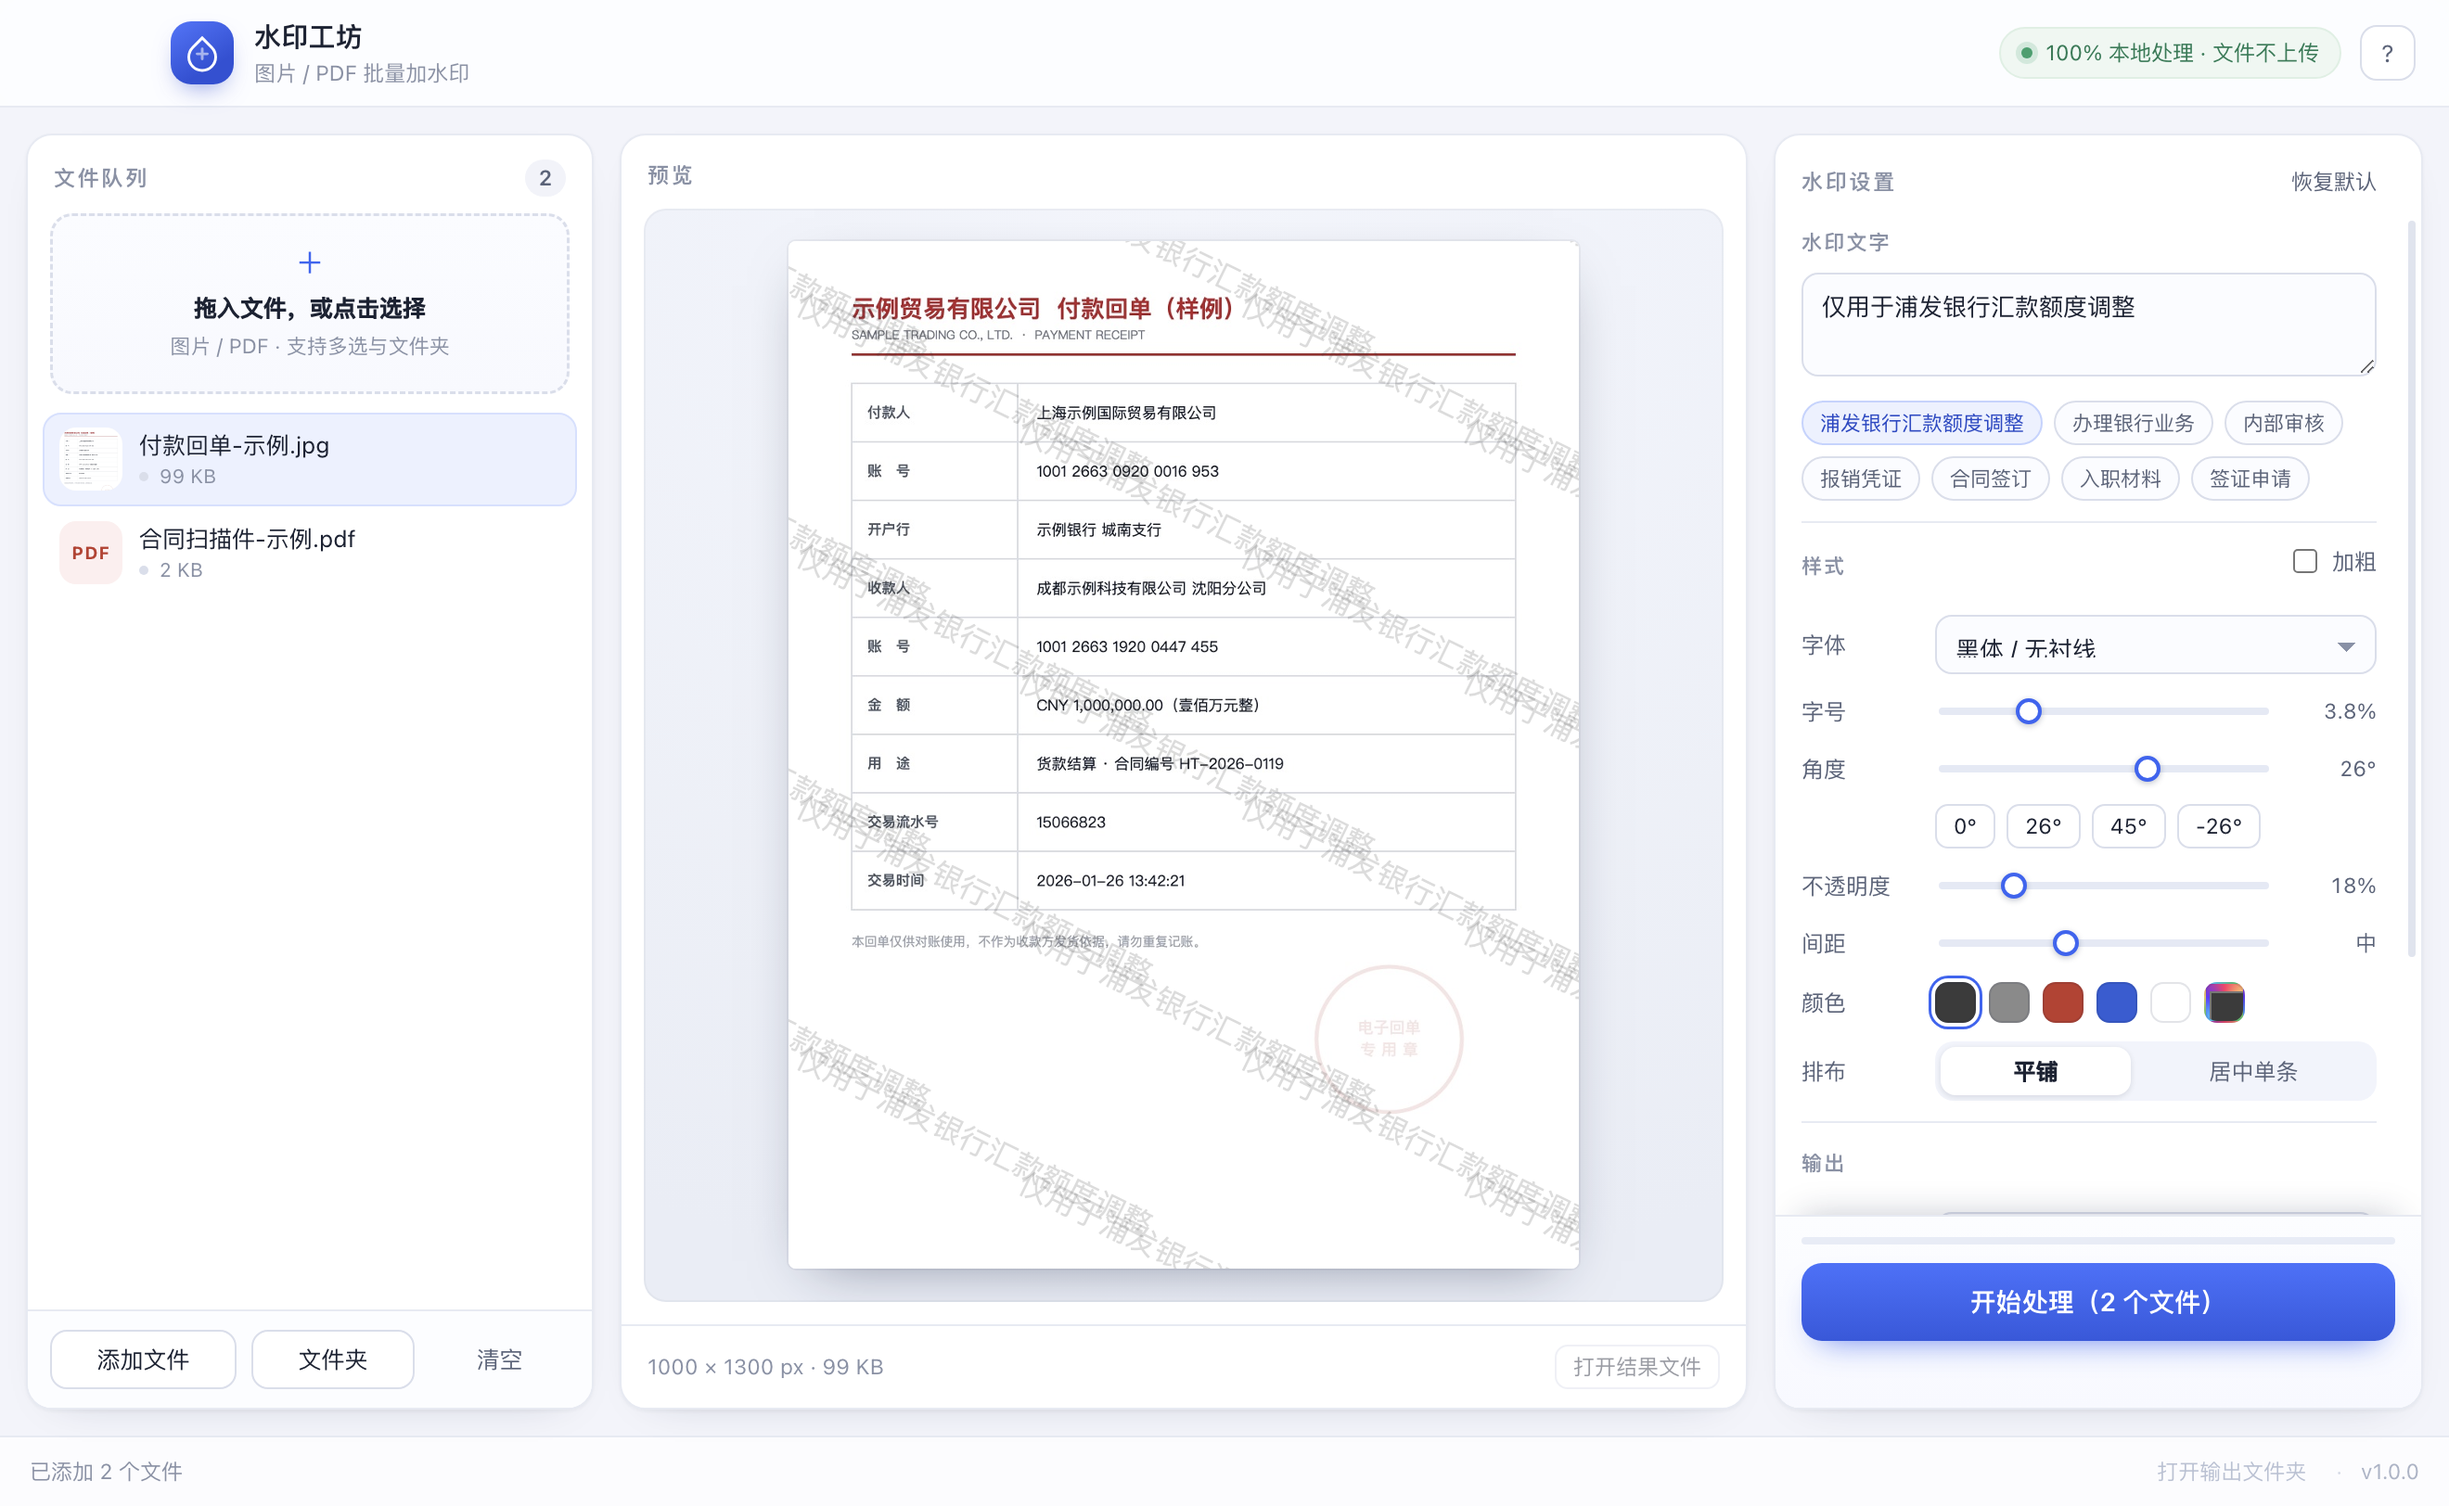
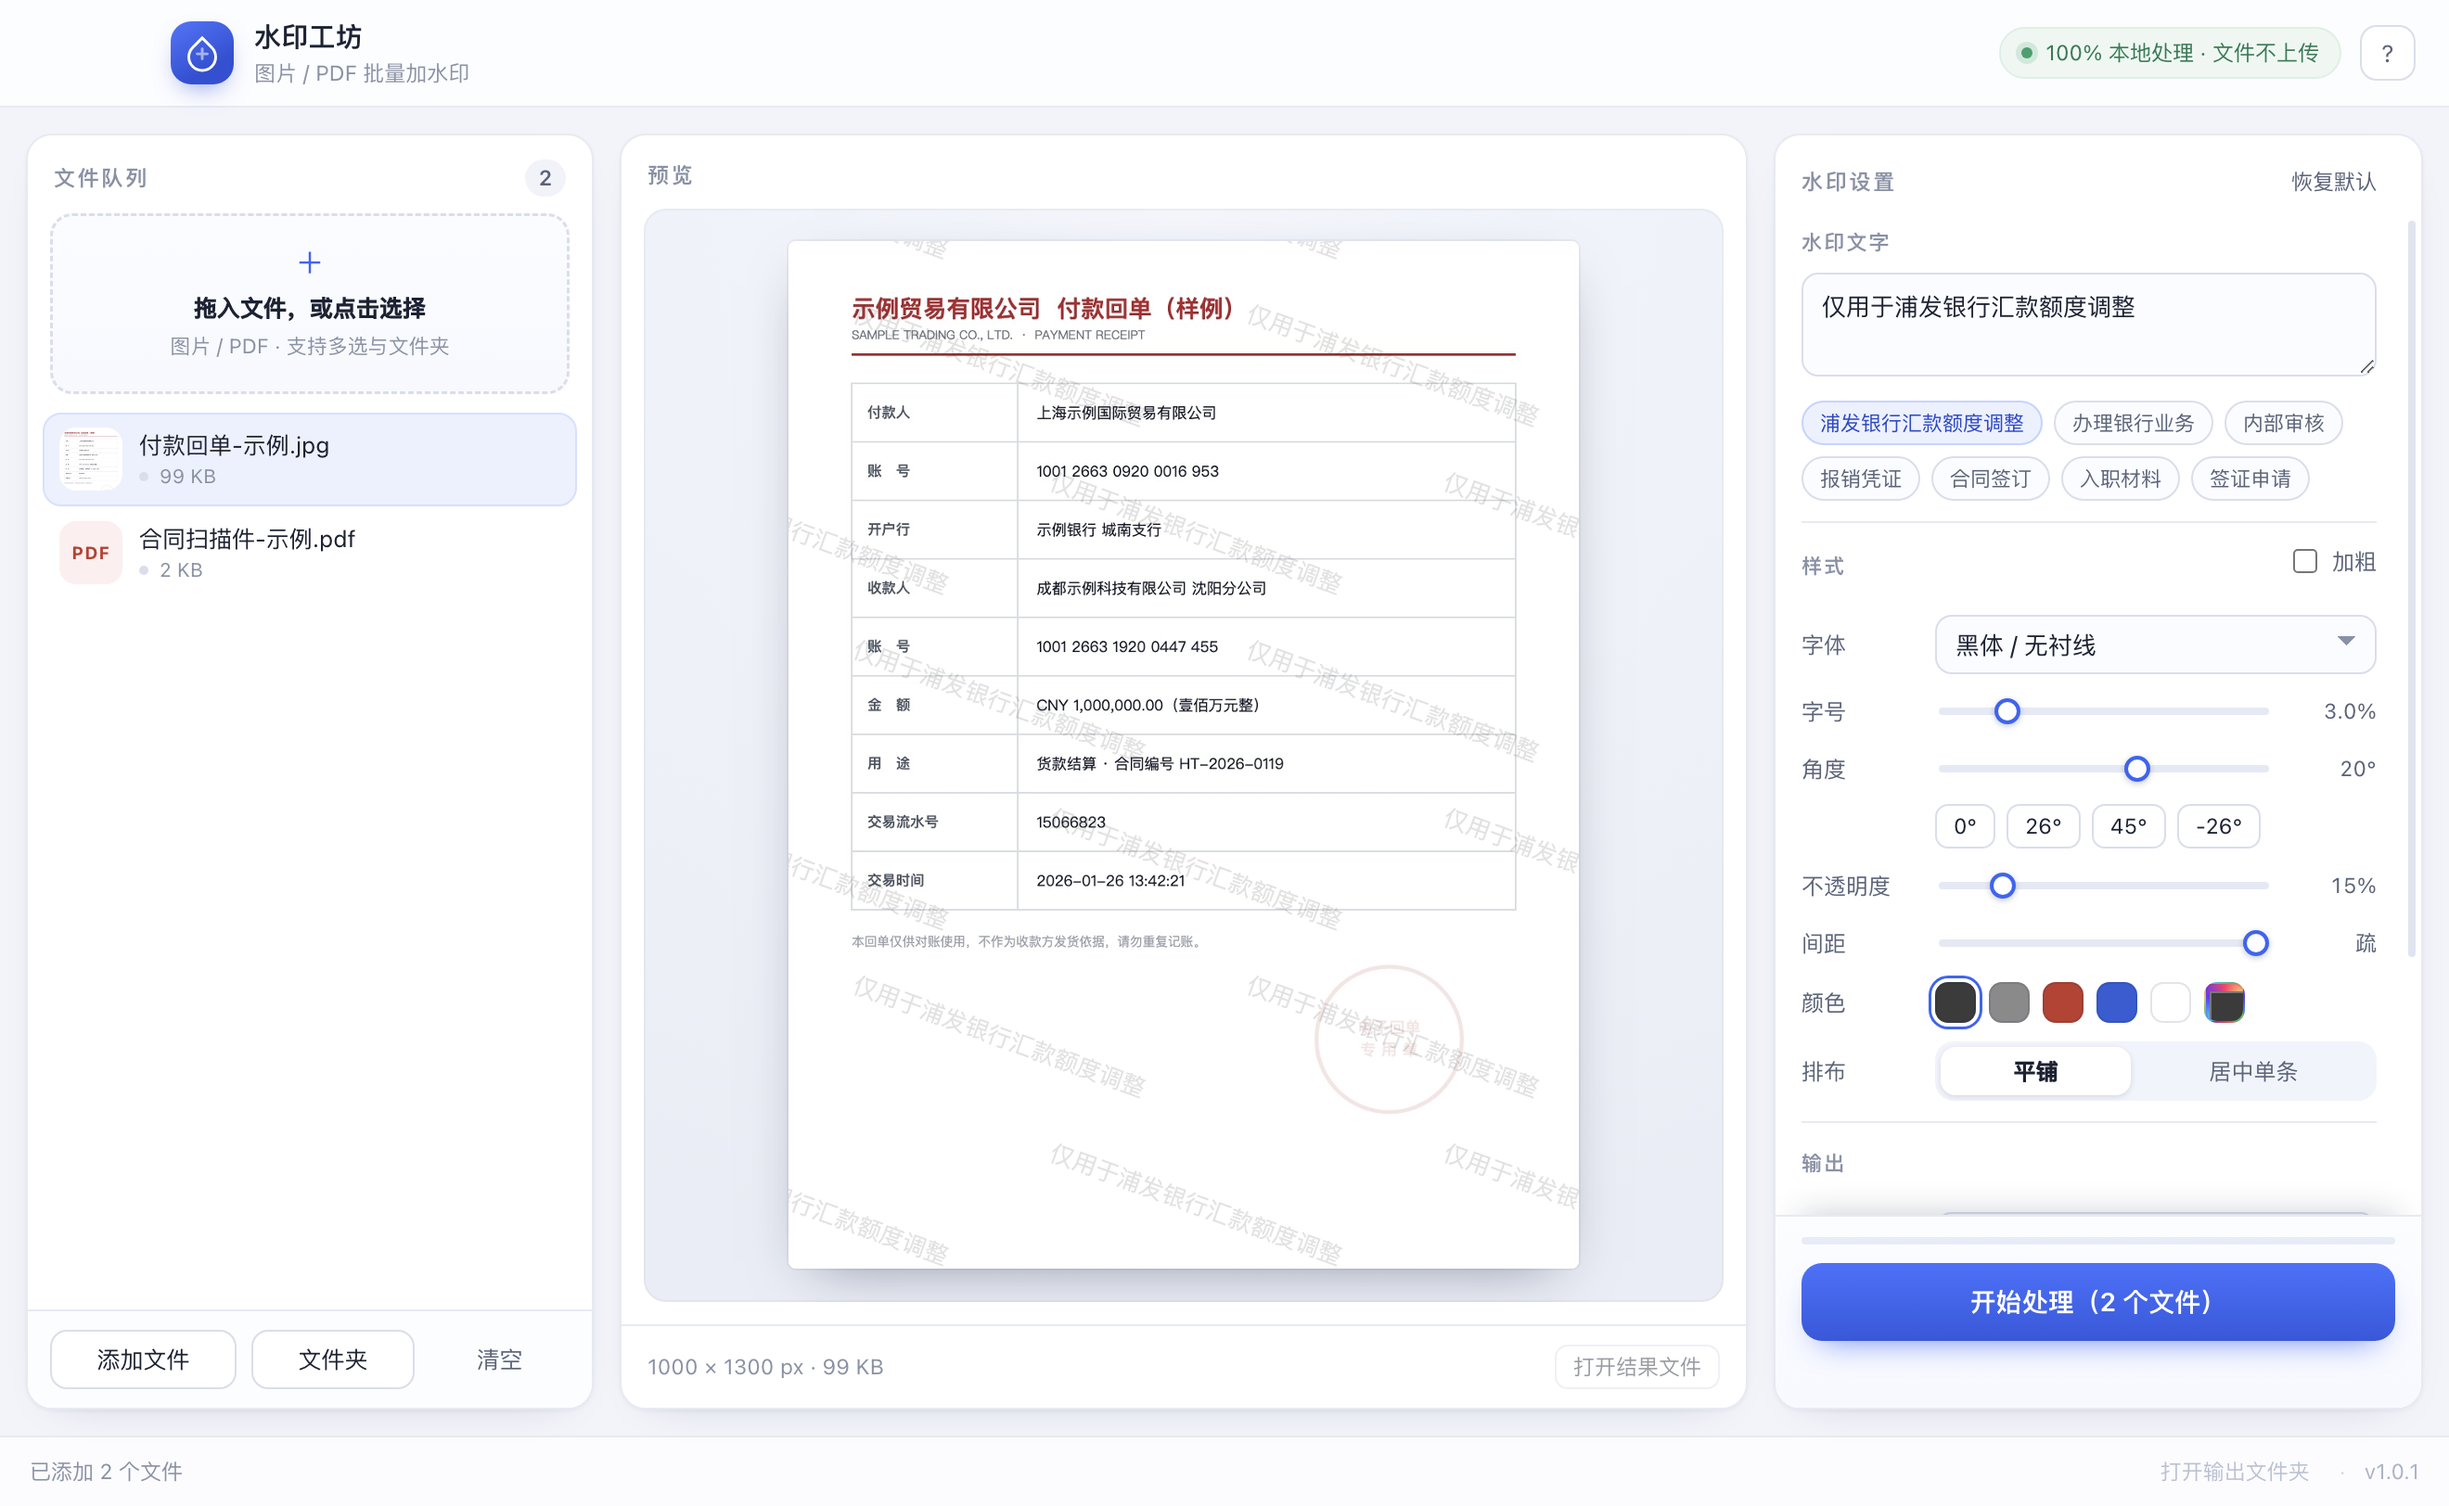
fix: 下拉框文字被裁切；默认参数改为 3% / 20° / 15° / 疏间距
- 修复：设置面板「字体」「图片格式」两个 select 的文字被上下裁切。原因是 32px 高度内再叠加 8px 上下内边距，行盒溢出被裁；改为垂直内边距 0 + line-height 30px，下拉箭头改为垂直居中
- 默认水印参数调整为字号 3.0%、角度 20°、不透明度 15%、间距最疏（gapX 3.6 / gapY 5.8）
- 设置存储版本升到 settings.v3，升级后自动套用新默认值
- 打包产物改 ASCII 文件名（WatermarkStudio-*），便于分享与命令行下载
- .gitignore 忽略所有 .tmp-* 临时文件；新增 CHANGELOG.md

diff --git a/src/renderer/styles.css b/src/renderer/styles.css
@@ -261,7 +261,7 @@ textarea { resize: vertical; min-height: 56px; line-height: 1.45; }
 textarea:focus, input[type="text"]:focus, select:focus {
   border-color: #a9bdf7; background: #fff; box-shadow: 0 0 0 3px rgba(53, 99, 246, .12);
 }
-select { appearance: none; background-image: linear-gradient(45deg, transparent 50%, #8791a8 50%), linear-gradient(135deg, #8791a8 50%, transparent 50%); background-position: calc(100% - 15px) 14px, calc(100% - 10px) 14px; background-size: 5px 5px, 5px 5px; background-repeat: no-repeat; padding-right: 26px; }
+select { appearance: none; background-image: linear-gradient(45deg, transparent 50%, #8791a8 50%), linear-gradient(135deg, #8791a8 50%, transparent 50%); background-position: calc(100% - 15px) calc(50% - 2px), calc(100% - 10px) calc(50% - 2px); background-size: 5px 5px, 5px 5px; background-repeat: no-repeat; padding-right: 26px; }
 
 .chips { display: flex; flex-wrap: wrap; gap: 6px; margin-top: 8px; }
 .chip {
@@ -277,7 +277,14 @@ select { appearance: none; background-image: linear-gradient(45deg, transparent 
 
 .field { display: flex; align-items: center; gap: 10px; margin-top: 10px; }
 .field-label { flex: 0 0 62px; font-size: 12px; color: var(--text-2); }
-.field select, .field input[type="text"] { flex: 1 1 auto; height: 32px; }
+.field select, .field input[type="text"] {
+  flex: 1 1 auto;
+  height: 32px;
+  padding-top: 0;
+  padding-bottom: 0;
+  line-height: 30px;
+}
+.field select { padding-right: 26px; }
 
 .slider-row { display: flex; align-items: center; gap: 10px; margin-top: 9px; }
 .slider-row .field-label { flex: 0 0 62px; }

diff --git a/src/renderer/engine/render.js b/src/renderer/engine/render.js
@@ -12,12 +12,12 @@
     text: '仅用于浦发银行汇款额度调整',
     fontKey: 'hei',
     bold: false,
-    sizePct: 0.038,   // 字号 = 画布短边 × sizePct
-    angle: 26,        // 逆时针角度（度）
-    opacity: 0.18,    // 0.02 – 1
+    sizePct: 0.030,   // 字号 = 画布短边 × sizePct
+    angle: 20,        // 逆时针角度（度）
+    opacity: 0.15,    // 0.02 – 1
     color: '#3b3b3b',
-    gapX: 1.8,        // 横向间距（相对字号）
-    gapY: 2.9,        // 纵向上行距（相对字号）
+    gapX: 3.6,        // 横向间距（相对字号）
+    gapY: 5.8,        // 纵向上行距（相对字号）
     stagger: true,    // 交错排布
     layout: 'tile',   // tile 平铺 | center 居中
   };

diff --git a/scripts/screenshot.js b/scripts/screenshot.js
@@ -8,11 +8,12 @@ const fs = require('node:fs');
 const path = require('node:path');
 
 const OUT = path.join(__dirname, '..', 'docs', 'screenshot.png');
+const PKG = require(path.join(__dirname, '..', 'package.json'));
 
 app.disableHardwareAcceleration();
 app.whenReady().then(async () => {
   ipcMain.handle('app:info', () => ({
-    version: '1.0.0', name: '水印工坊', platform: process.platform,
+    version: PKG.version, name: '水印工坊', platform: process.platform,
     isMac: process.platform === 'darwin', downloads: app.getPath('downloads'),
   }));
   ipcMain.handle('file:write', () => ({ path: '', size: 0 }));

diff --git a/src/renderer/index.html b/src/renderer/index.html
@@ -138,7 +138,7 @@
 
           <div class="slider-row">
             <span class="field-label">间距</span>
-            <input type="range" id="opt-gap" min="0.4" max="2" step="0.05" value="1" />
+            <input type="range" id="opt-gap" min="0.4" max="2" step="0.05" value="2" />
             <span class="slider-val" id="val-gap"></span>
           </div>
 

diff --git a/src/renderer/app.js b/src/renderer/app.js
@@ -8,7 +8,7 @@
 
   const $ = (sel, root) => (root || document).querySelector(sel);
   const $$ = (sel, root) => Array.from((root || document).querySelectorAll(sel));
-  const SETTINGS_KEY = 'watermark-studio.settings.v2';
+  const SETTINGS_KEY = 'watermark-studio.settings.v3';
 
   const state = {
     items: [],

diff --git a/README.md b/README.md
@@ -25,8 +25,8 @@
 
 | 平台 | 版本 | 安装包 |
 | --- | --- | --- |
-| macOS | 11 Big Sur 及以上（Intel 与 Apple Silicon 均可） | `水印工坊-1.0.0-*.dmg` |
-| Windows | Windows 10 / 11（64 位） | `水印工坊-1.0.0-安装程序.exe`（或免安装 `.exe`） |
+| macOS | 11 Big Sur 及以上（Intel 与 Apple Silicon 均可） | `WatermarkStudio-1.0.1-mac-*.dmg` |
+| Windows | Windows 10 / 11（64 位） | `WatermarkStudio-1.0.1-win-x64-setup.exe`（或免安装 `-portable.exe`） |
 
 ## 使用
 
@@ -40,9 +40,9 @@
 | 参数 | 说明 |
 | --- | --- |
 | 水印文字 | 支持多行（换行即分段）；右侧预设一键填入常用用途说明 |
-| 字号 | 相对页面短边的百分比，默认 3.8% —— 页面越大字越大，比例始终一致 |
-| 角度 | 逆时针角度，默认 26°（斜向平铺观感最自然） |
-| 不透明度 | 默认 18%，既能看清文字又不遮挡原件内容 |
+| 字号 | 相对页面短边的百分比，默认 3% —— 页面越大字越大，比例始终一致 |
+| 角度 | 逆时针角度，默认 20° |
+| 不透明度 | 默认 15%，既能看清文字又不遮挡原件内容 |
 | 间距 | 旋转后相邻水印块的空隙，调大更疏、调小更密 |
 | 颜色 | 默认深灰 `#3b3b3b`，另有红/蓝/浅灰/黑色可选，也可自定义 |
 
@@ -72,10 +72,10 @@
 
 | 文件 | 适用平台 |
 | --- | --- |
-| `水印工坊-1.0.0-x64.dmg` | macOS Intel 芯片 |
-| `水印工坊-1.0.0-arm64.dmg` | macOS Apple Silicon（M1/M2/M3/M4） |
-| `水印工坊-1.0.0-安装程序.exe` | Windows 10/11 64 位（安装版，可选安装目录） |
-| `水印工坊-1.0.0-免安装.exe` | Windows 10/11 64 位（绿色免安装） |
+| `WatermarkStudio-1.0.1-mac-x64.dmg` | macOS Intel 芯片 |
+| `WatermarkStudio-1.0.1-mac-arm64.dmg` | macOS Apple Silicon（M1/M2/M3/M4） |
+| `WatermarkStudio-1.0.1-win-x64-setup.exe` | Windows 10/11 64 位（安装版，可选安装目录） |
+| `WatermarkStudio-1.0.1-win-x64-portable.exe` | Windows 10/11 64 位（绿色免安装） |
 
 推送 `v*` 标签或手动触发 `.github/workflows/build.yml`，GitHub Actions 会自动在
 macOS / Windows 上分别打包并上传安装包（不签名）。
@@ -91,8 +91,8 @@ npm start
 ### 打包安装包
 
 ```bash
-npm run dist:mac   # 生成 dist/水印工坊-1.0.0-*.dmg（Intel + Apple Silicon）
-npm run dist:win   # 生成 dist/水印工坊-1.0.0-安装程序.exe / 免安装.exe
+npm run dist:mac   # 生成 dist/WatermarkStudio-1.0.1-mac-*.dmg（Intel + Apple Silicon）
+npm run dist:win   # 生成 dist/WatermarkStudio-1.0.1-win-x64-{setup,portable}.exe
 npm run dist:all   # 两个平台一起打
 ```
 

diff --git a/CHANGELOG.md b/CHANGELOG.md
@@ -1,0 +1,19 @@
+# 更新日志
+
+## 1.0.1 — 2026-11-09
+
+- 修复：设置面板中「字体」「图片格式」两个下拉框的文字被上下裁切（32px 高度与内边距叠加导致行盒溢出），同时把下拉箭头改为垂直居中
+- 调整默认参数：字号 3.0%、角度 20°、不透明度 15%、间距「疏」（原 3.8% / 26° / 18% / 中）
+- 本地设置存储版本升级（`settings.v3`），升级后会自动使用新的默认参数
+- 打包产物改为 ASCII 文件名（`WatermarkStudio-<version>-...`），便于分享链接与命令行下载；应用内显示名仍是「水印工坊」
+
+## 1.0.0 — 2026-11-09
+
+首个版本。
+
+- 图片（jpg/jpeg/png/webp/bmp/gif/avif）与 PDF 批量加水印
+- 文字、字体、加粗、字号、角度、不透明度、间距、颜色可调
+- 平铺 / 居中单条两种排布，图片实时预览
+- PDF 页码范围、旋转页面自适应；透明覆盖层叠加，不改动原文字层
+- 输出防覆盖、可选输出目录、文件名后缀自定义、参数记忆
+- macOS（Intel / Apple Silicon）与 Windows 64 位安装包
